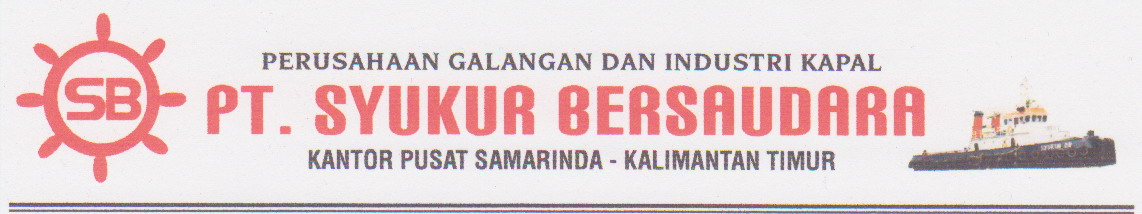
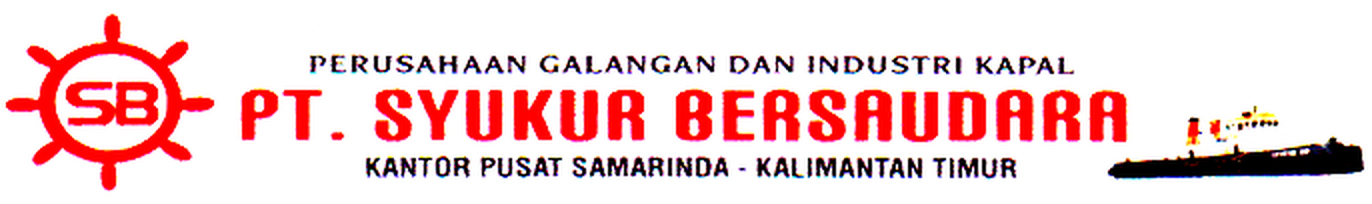
feat(pdf): apply full-hd official letterhead kop to all generated documents

diff --git a/services/api/scripts/seed-api-import.ts b/services/api/scripts/seed-api-import.ts
@@ -532,7 +532,7 @@ async function main(): Promise<void> {
 
   // --- Batch 15: Master Katalog Barang & Stok Gudang Nyata (Inventory) ---
   const legacyStock = loadJson<Array<{ kode: string; nama: string; awal: number; masuk: number; keluar: number; akhir: number }>>("warehouse_stock.json");
-  const legacyWin = loadJson<Array<Record<string, any>>>("warehouse_in.json");
+  const legacyWin = loadJson<Array<Record<string, unknown>>>("warehouse_in.json");
 
   const CATEGORY_DEFAULT: Array<[RegExp, number]> = [
     [/plat|baja|besi|siku|channel|\bms\b|pipa\s*(besi|karbon)/i, 14500],
@@ -720,7 +720,7 @@ async function main(): Promise<void> {
   }
 
   // --- Batch 17: Mutasi Pengeluaran Gudang Nyata (Warehouse Out Movements) ---
-  const legacyWout = loadJson<Array<Record<string, any>>>("warehouse_out.json");
+  const legacyWout = loadJson<Array<Record<string, unknown>>>("warehouse_out.json");
   if (legacyWout && Array.isArray(legacyWout)) {
     const startBatch = Date.now();
     console.log(`\n-------------------------------------------------------------------`);

diff --git a/services/api/src/pdf/documents/shared.ts b/services/api/src/pdf/documents/shared.ts
@@ -1,4 +1,4 @@
-/* Helper yang dipakai semua factory dokumen resmi.
+/* Helper yang dipakai semua factory dokumen resmi.
  *
  * Isi di sini - kop perusahaan, format angka/tanggal, pemuat baris dari DB -
  * TIDAK duplikat di 21 factory. Kesalahan seperti "kwitansi pakai ejaan
@@ -88,7 +88,7 @@ export function kopImageSrc(): string | null {
   }
   return kopCache || null;
 }
-const KOP_RATIO = 214 / 1142;
+const KOP_RATIO = 102 / 686;
 
 /** Kop perusahaan. Semua dokumen resmi memakai ini tanpa variasi: kop gambar
  *  klien selebar area isi; kop teks (bisa diubah lewat setting) hanya bila

diff --git a/services/api/src/pdf/documents/hrLetter.ts b/services/api/src/pdf/documents/hrLetter.ts
@@ -175,7 +175,7 @@ class Pen {
 
 /* Layout seragam dengan semua dokumen (permintaan user 21 Okt): kop, jarak
    kop → judul, dan footer alamat sama dengan dokumen lain. */
-const KOP_RATIO = 214 / 1142;
+const KOP_RATIO = 102 / 686;
 const KOP_GAP = 7;
 
 /** "26 (Dua Puluh Enam) bulan Juni tahun 2026" - kalimat tanggal PHK. */

diff --git a/services/api/src/auth.ts b/services/api/src/auth.ts
@@ -1,7 +1,7 @@
 import bcrypt from "bcryptjs";
 import jwt from "jsonwebtoken";
 import type { FastifyReply, FastifyRequest } from "fastify";
-import { randomBytes, randomUUID } from "node:crypto";
+import { randomUUID } from "node:crypto";
 import { loadEnv } from "./env.js";
 import { exec, q } from "./db.js";
 
